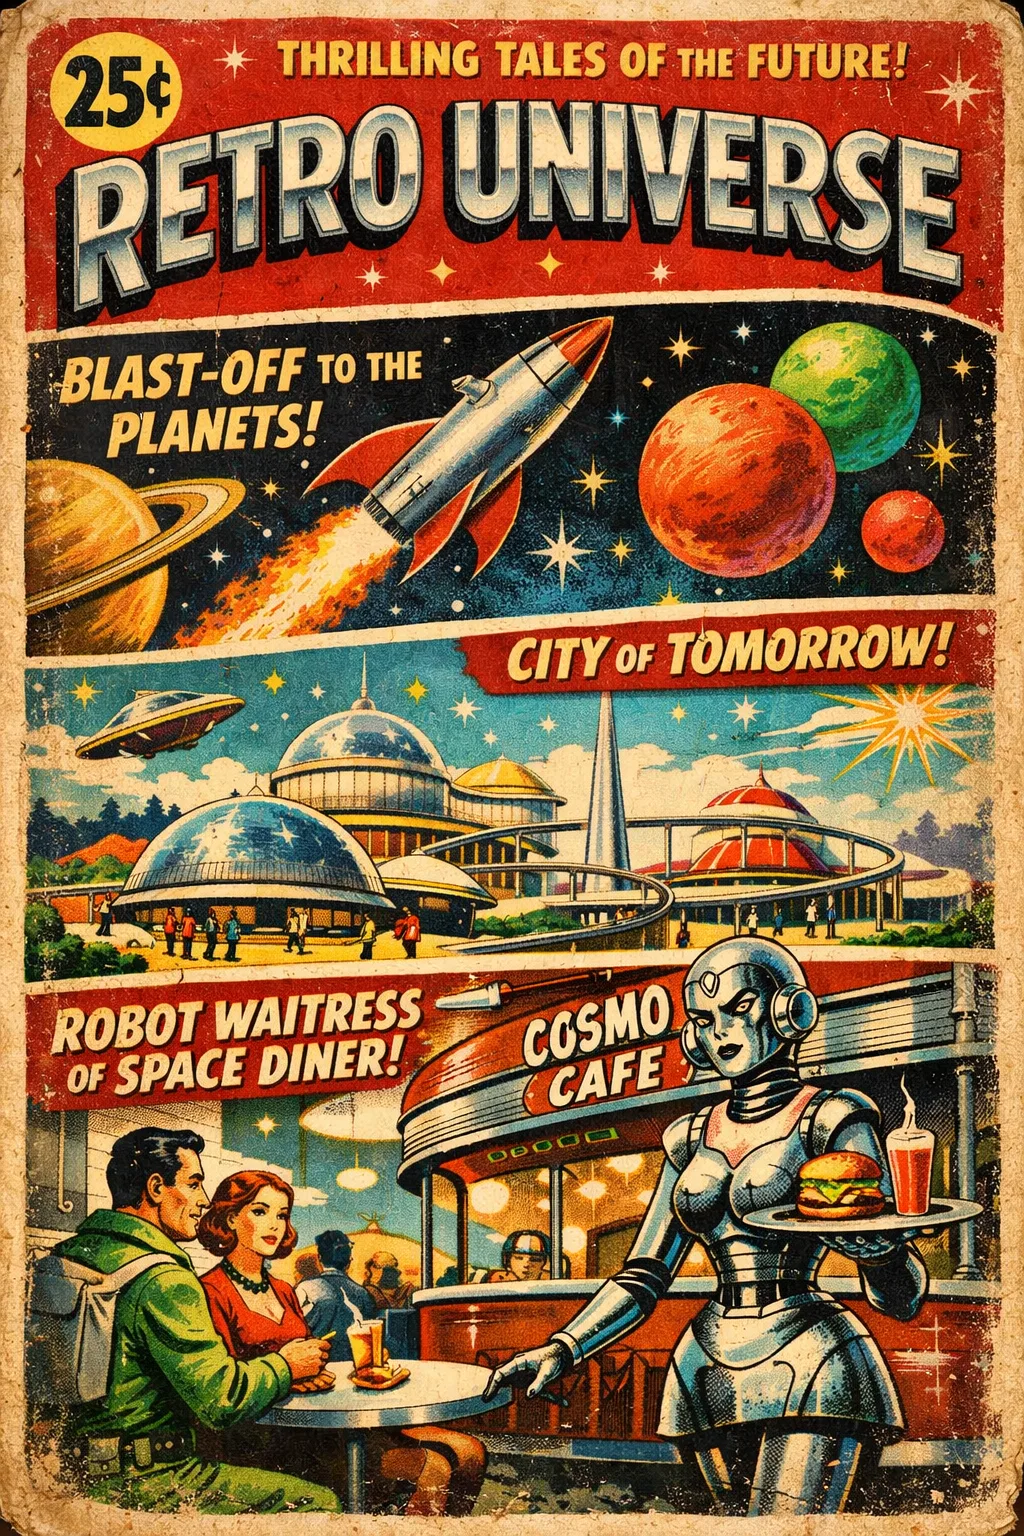
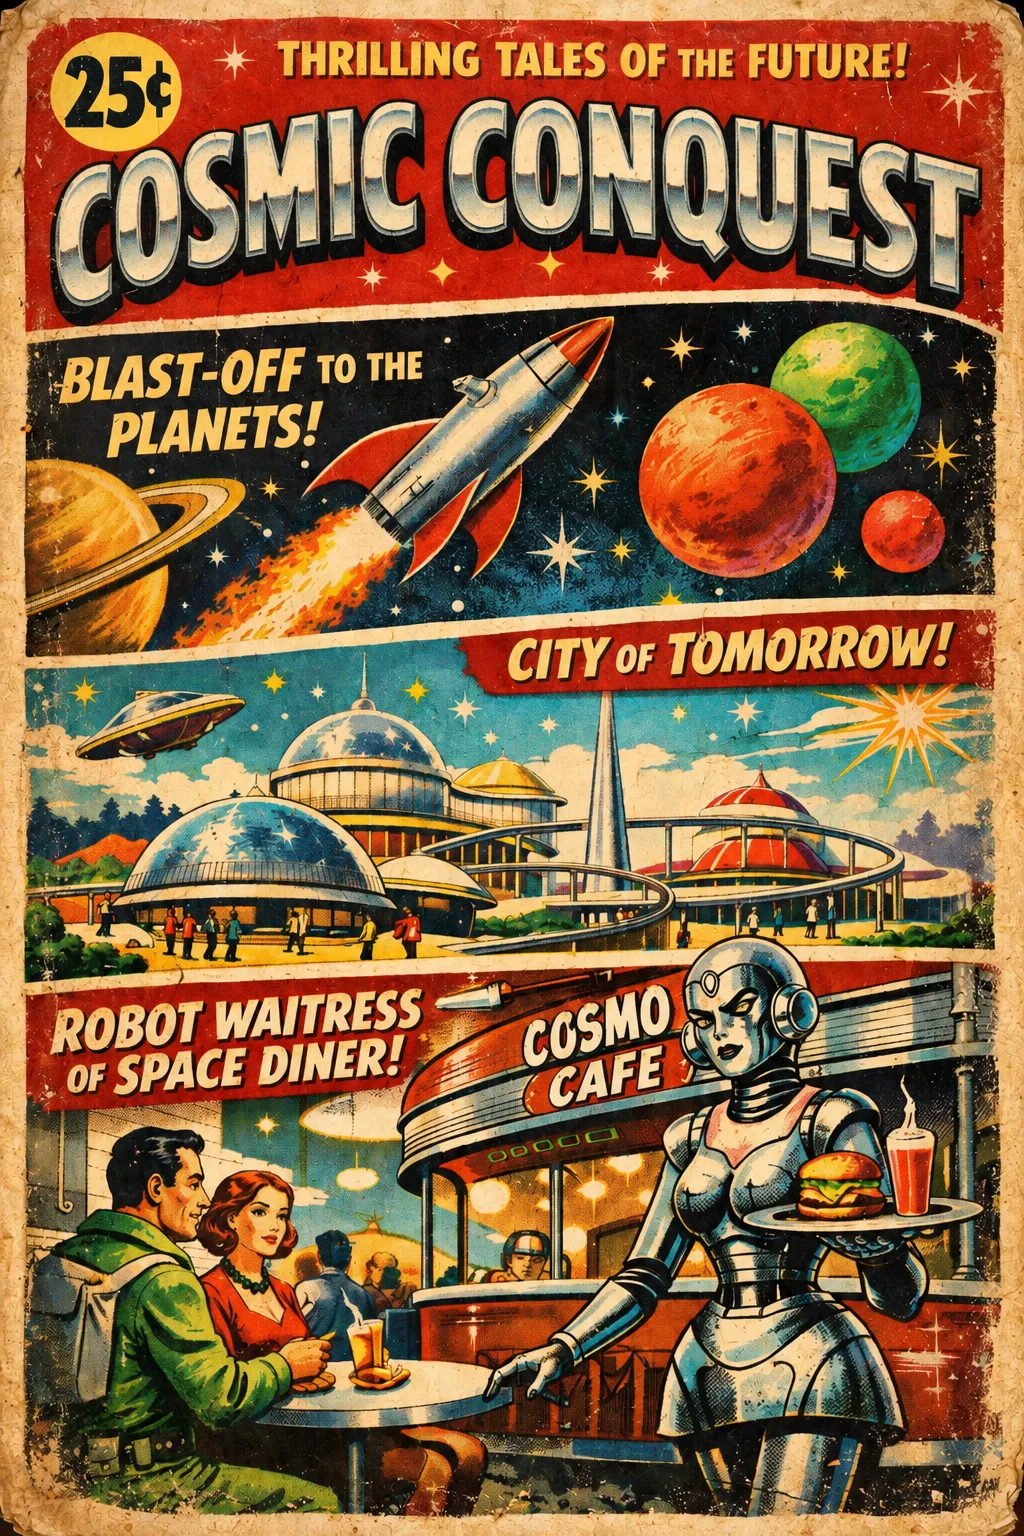
Hub cover: title now reads COSMIC CONQUEST (#12)
Made in the ChatGPT app from the old cover (same layout, so the world
hotspots still line up), saved to the owner's Drive folder, processed with
script/art/process.py. Documents the working art hand-over flow.

Claude-Session: https://claude.ai/code/session_018Gs94P8q9ZGELY91GUCPp9

diff --git a/GAME_PLAN.md b/GAME_PLAN.md
@@ -152,16 +152,24 @@ wearing a **red bandana with a gold star**.
 > pinned to a cork board, a big porthole window showing Saturn, a desk with
 > a vintage radio and a brass star badge.
 
-**How to hand them over:** Claude generates the art in the ChatGPT app on the
-Mac Mini and runs it through `script/art/process.py`. If you make an image
-yourself, save it as a PNG and send it to Claude in chat; don't upload
-full-size PNGs into the repository.
+**How to hand them over:** Claude drives the ChatGPT desktop app on the Mac
+Mini (paste the reference image and prompt, then "Copy image" on the result),
+saves the full-size PNG to the owner's Google Drive folder "Retro Futurism",
+and runs it through `script/art/process.py` into `client/public/`. The ChatGPT
+app exposes no accessibility controls, so this works from screenshots and
+clicks by position; the Terminal running Claude Code needs Accessibility and
+Screen Recording permission. Don't commit full-size PNGs to the repository.
 
-**Site cover (the hub page):** the current cover has "RETRO UNIVERSE" painted
-into the art. Upload it to ChatGPT and ask:
+**Site cover (the hub page):** done 2026-09-25 (title now "COSMIC CONQUEST";
+original in the Drive folder as "hub cover cosmic conquest.png"). Prompt used,
+with the old cover attached:
 
 > Recreate this exact magazine cover in the same style, but change the title
-> text "RETRO UNIVERSE" to "COSMIC CONQUEST". Keep everything else the same.
+> text "RETRO UNIVERSE" to "COSMIC CONQUEST". Keep everything else the same:
+> the same tall portrait size, the same three illustrated bands in the same
+> positions, the same banners, colors, aged paper texture and worn edges.
+
+Keeping the bands in place matters: the hub's clickable areas sit on them.
 
 ## Known limits
 
